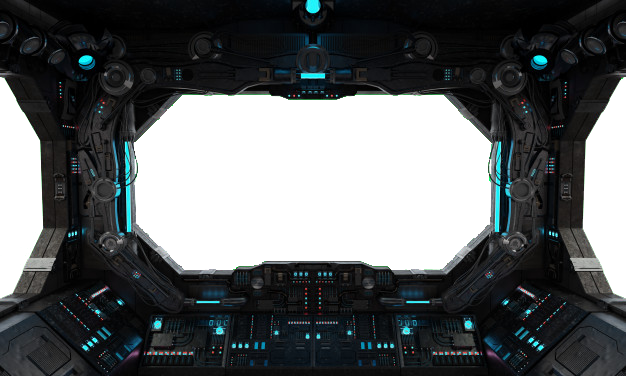
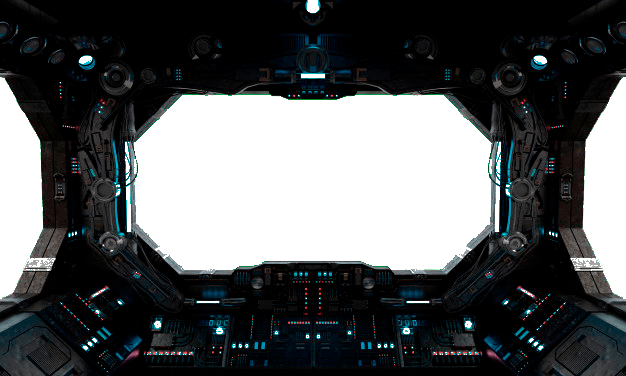
git

diff --git a/docs/efectoLinterna/efectoLinterna.css b/docs/efectoLinterna/efectoLinterna.css
@@ -26,18 +26,82 @@
     position: absolute;
     top: 0;
     left: 0;
+    width: 100vw;
+    height: 100vh;
     max-width: 100%;
     opacity: 0.1;
     overflow: hidden;
+    animation: animate 5s linear infinite;
 }
 .ligth   /*Efecto de literna*/
 {
     position: fixed;
     background-color: transparent;
-    background: radial-gradient(circle at var(--x) var(--y), transparent 10%, rgba(0,0,0,0.6) 20%);
+    background: radial-gradient(circle at var(--x) var(--y), transparent 10%, rgba(0,0,0,.9) 40%);
     height: 100vh;
     width: 100vw;
     top: 0;
     left: 0;
     z-index: 10;
+}
+.ventanaNave
+{
+    position: absolute;
+    top: 0;
+    left: 0;
+    width: 100vw;
+    height: 100vh;
+    background-image: url('ventanaNave.png');
+    background-repeat: no-repeat;
+    background-size: cover;
+    background-color: transparent;
+    z-index: 30;
+    animation: animate 5s linear infinite;
+}
+
+/* Animaciones con keyframes */
+
+@keyframes animate
+
+{
+10%
+    {
+        transform: translate(5px,0px);
+    }
+20%
+    {
+        transform: translate(0px,5px);
+    }
+30%
+    {
+        transform: translate(5px,5px);
+    }
+40%
+    {
+        transform: translate(5px,0px);
+    }
+50%
+    {
+        transform: translate(0px,5px);
+    }
+60%
+    {
+        transform: translate(0px,0px);
+    }
+70%
+    {
+        transform: translate(-5px,0px);
+    }
+80%
+    {
+        transform: translate(0px,-5px);
+    }
+90%
+    {
+        transform: translate(-5px,-5px);
+    }
+100%
+    {
+        transform: translate(0px,0px);
+    }
 }

diff --git a/docs/efectoLinterna/efectoLinterna.html b/docs/efectoLinterna/efectoLinterna.html
@@ -25,6 +25,9 @@
         <div class="ligth">
 
         </div>
+        <div class="ventanaNave">
+            <!-- <img src="ventanaNave.png" alt=""> -->
+        </div>
     </div>
 </body>
 </html>
